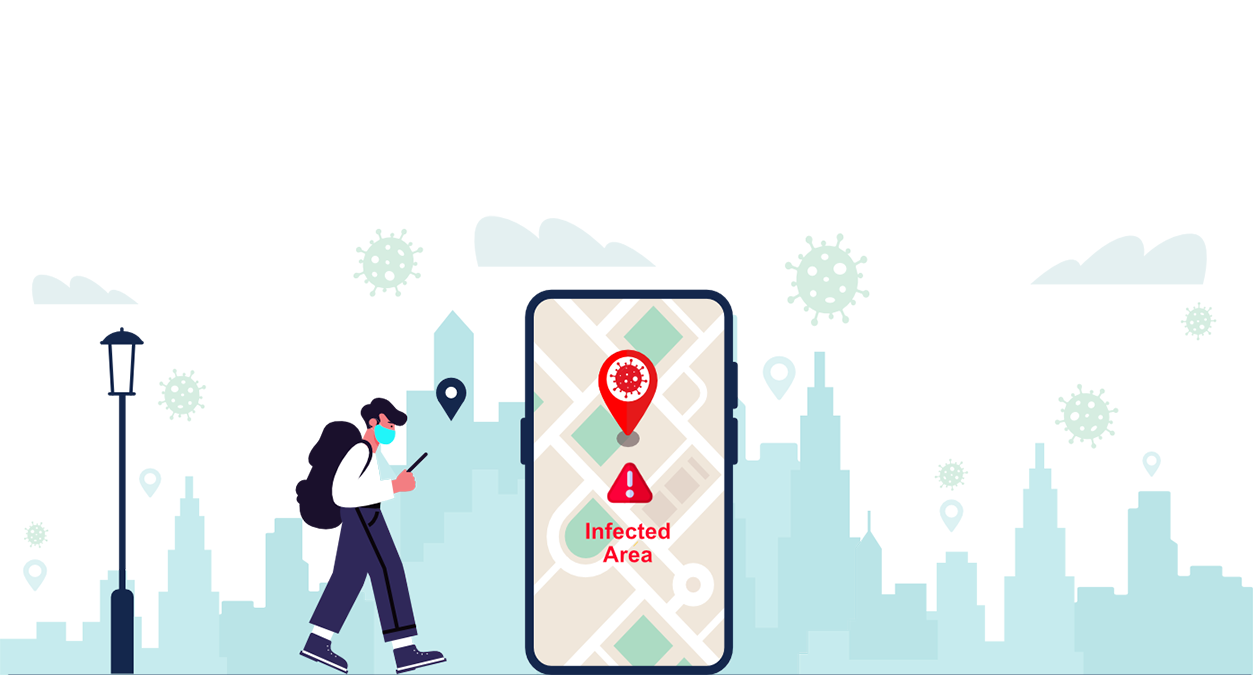
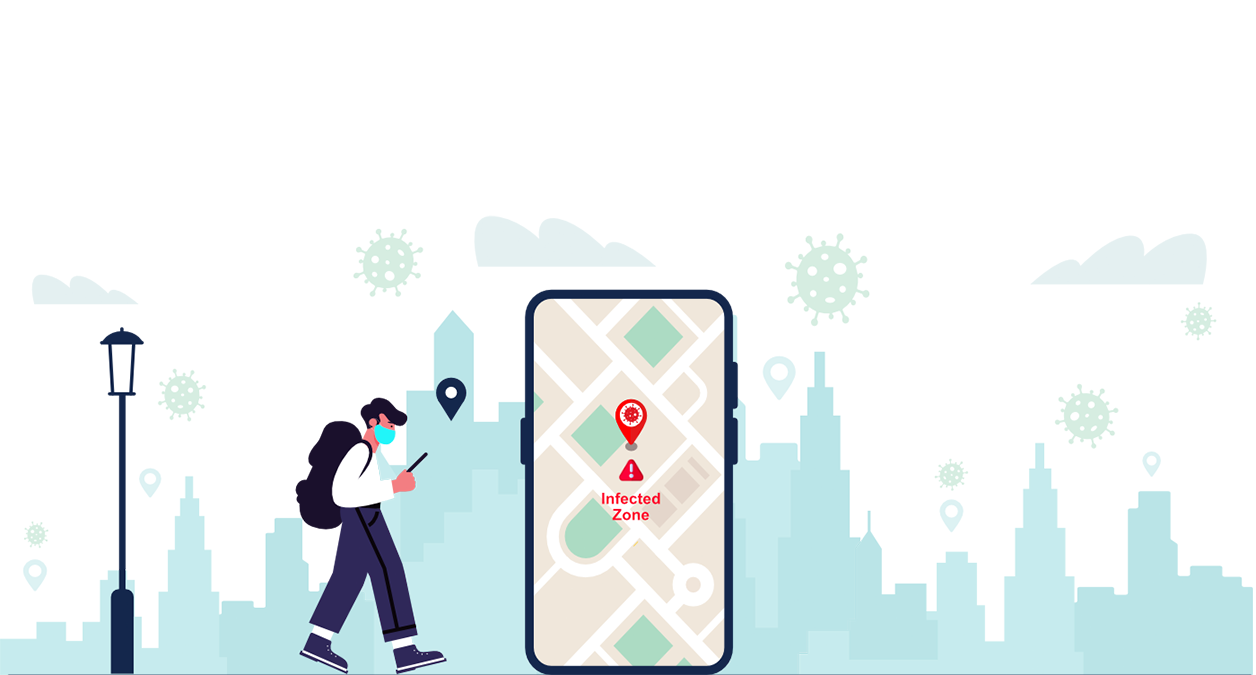
micare page text changes

Changed region(s): [[0.4658, 0.4978, 0.5279, 0.84]]

diff --git a/micare.html b/micare.html
@@ -3,7 +3,7 @@
 
   <head>
     <meta charset="utf-8">
-    <title>Mongrov - Messaging - Real-time communication with a team</title>
+    <title>Mongrov - MI Care - Covid-19 tracker app</title>
     <meta name="description" content="Mongrov, the best team communication app & online collaboration platform, comes with group messaging, group video conference, 
     task management and other great features that improve productivity and boost speed of execution." />
     <meta name="keywords" content="enterprise messaging, task board, messenger, chat, internal communication, video conferencing, workplace productivity app, work management app, video chat, project management tools, messenger app, video conferencing equipment, kanban board, wechat, online video chat, live chat, video conferencing solutions, video conferencing system, web chat online, task manager, chat web, message app, scrum board, online meeting, project management apps, web conferencing, task manager app, video call online, conference video call, best video conferencing, text messaging apps, project management system, online video calling, task management tool" />
@@ -105,8 +105,7 @@
     <div class="row justify-content-center mt-n-8">
       <div class="col-xl-12 col-lg-8 col-md-9">
         <h1 class="display-3 lh-2">Covid-19 tracker app</h1>
-        <p class="lead mb-0">Lorem ipsum dolor sit amet consectetur adipiscing elit sed do eiusmod <br> incididunt
-            ut labore et dolore magna aliqua.</p>
+        <p class="lead mb-0">A platform to self evaluate, protect from the infected zone <br>and connect with Health officials</p>
           <div class="d-flex row justify-content-center mt-3">
             <a class="col-lg-2 col-md-4 col-sm-5 col-5 d-block" href="#" rel="noopener">
               <img src="v3/assets/img/mong/google-play-badge.svg" alt="Playstore" title="Playstore">
@@ -123,13 +122,15 @@
 
   <section class="bg-primary-alt pt-7">
     <div class="container">
+      <div class="row mb-4">
+        <div class="col text-center">
+          <h3 class="h1">Benefits for citizen</h3>
+        </div>
+      </div>
       <div class="row justify-content-between align-items-center ">
         <!-- Order-2 interchanged -->
         <div class="col-lg-6 col-md-12 order-sm-1">
-            <div class="text-center text-lg-left text-md-left">
-                <h3 class="h1">Benefits for citizen</h3>
-                <p class="lead">Lorem ipsum dolor sit amet consectetur adipiscing elit sed do eiusmod .</p>
-              </div>
+    
 
           <div class="row mt-5 o-hidden">
             <div class="col-sm-9 aos-init aos-animate" data-aos="fade-left" data-aos-delay="100">
@@ -238,7 +239,7 @@
             </div>
             <h4 class="h5">Notifications</h4>
             <p>
-                Sed ut perspiciatis unde omnis iste natus error sit voluptatem
+              Notify to fill your symptoms, alert on crossing COVID zones
               </p>
     
           </div>
@@ -250,7 +251,7 @@
             </div>
             <h4 class="h5">Trace travel history</h4>
             <p>
-                Sed ut perspiciatis unde omnis iste natus error sit voluptatem
+              Trace travel to COVID zone in the past 21 days
             </p>
 
           </div>
@@ -262,7 +263,7 @@
             </div>
             <h4 class="h5">Track covid patients</h4>
             <p>
-                Sed ut perspiciatis unde omnis iste natus error sit voluptatem
+              Identify COVID patient crossing and be proactive
             </p>
 
           </div>
@@ -274,7 +275,7 @@
               </div>
               <h4 class="h5">Video conference for virtual care</h4>
               <p>
-                Sed ut perspiciatis unde omnis iste natus error.
+                To connect with health care officials using video conferencing and get Tele consulting.
               </p>
   
             </div>
